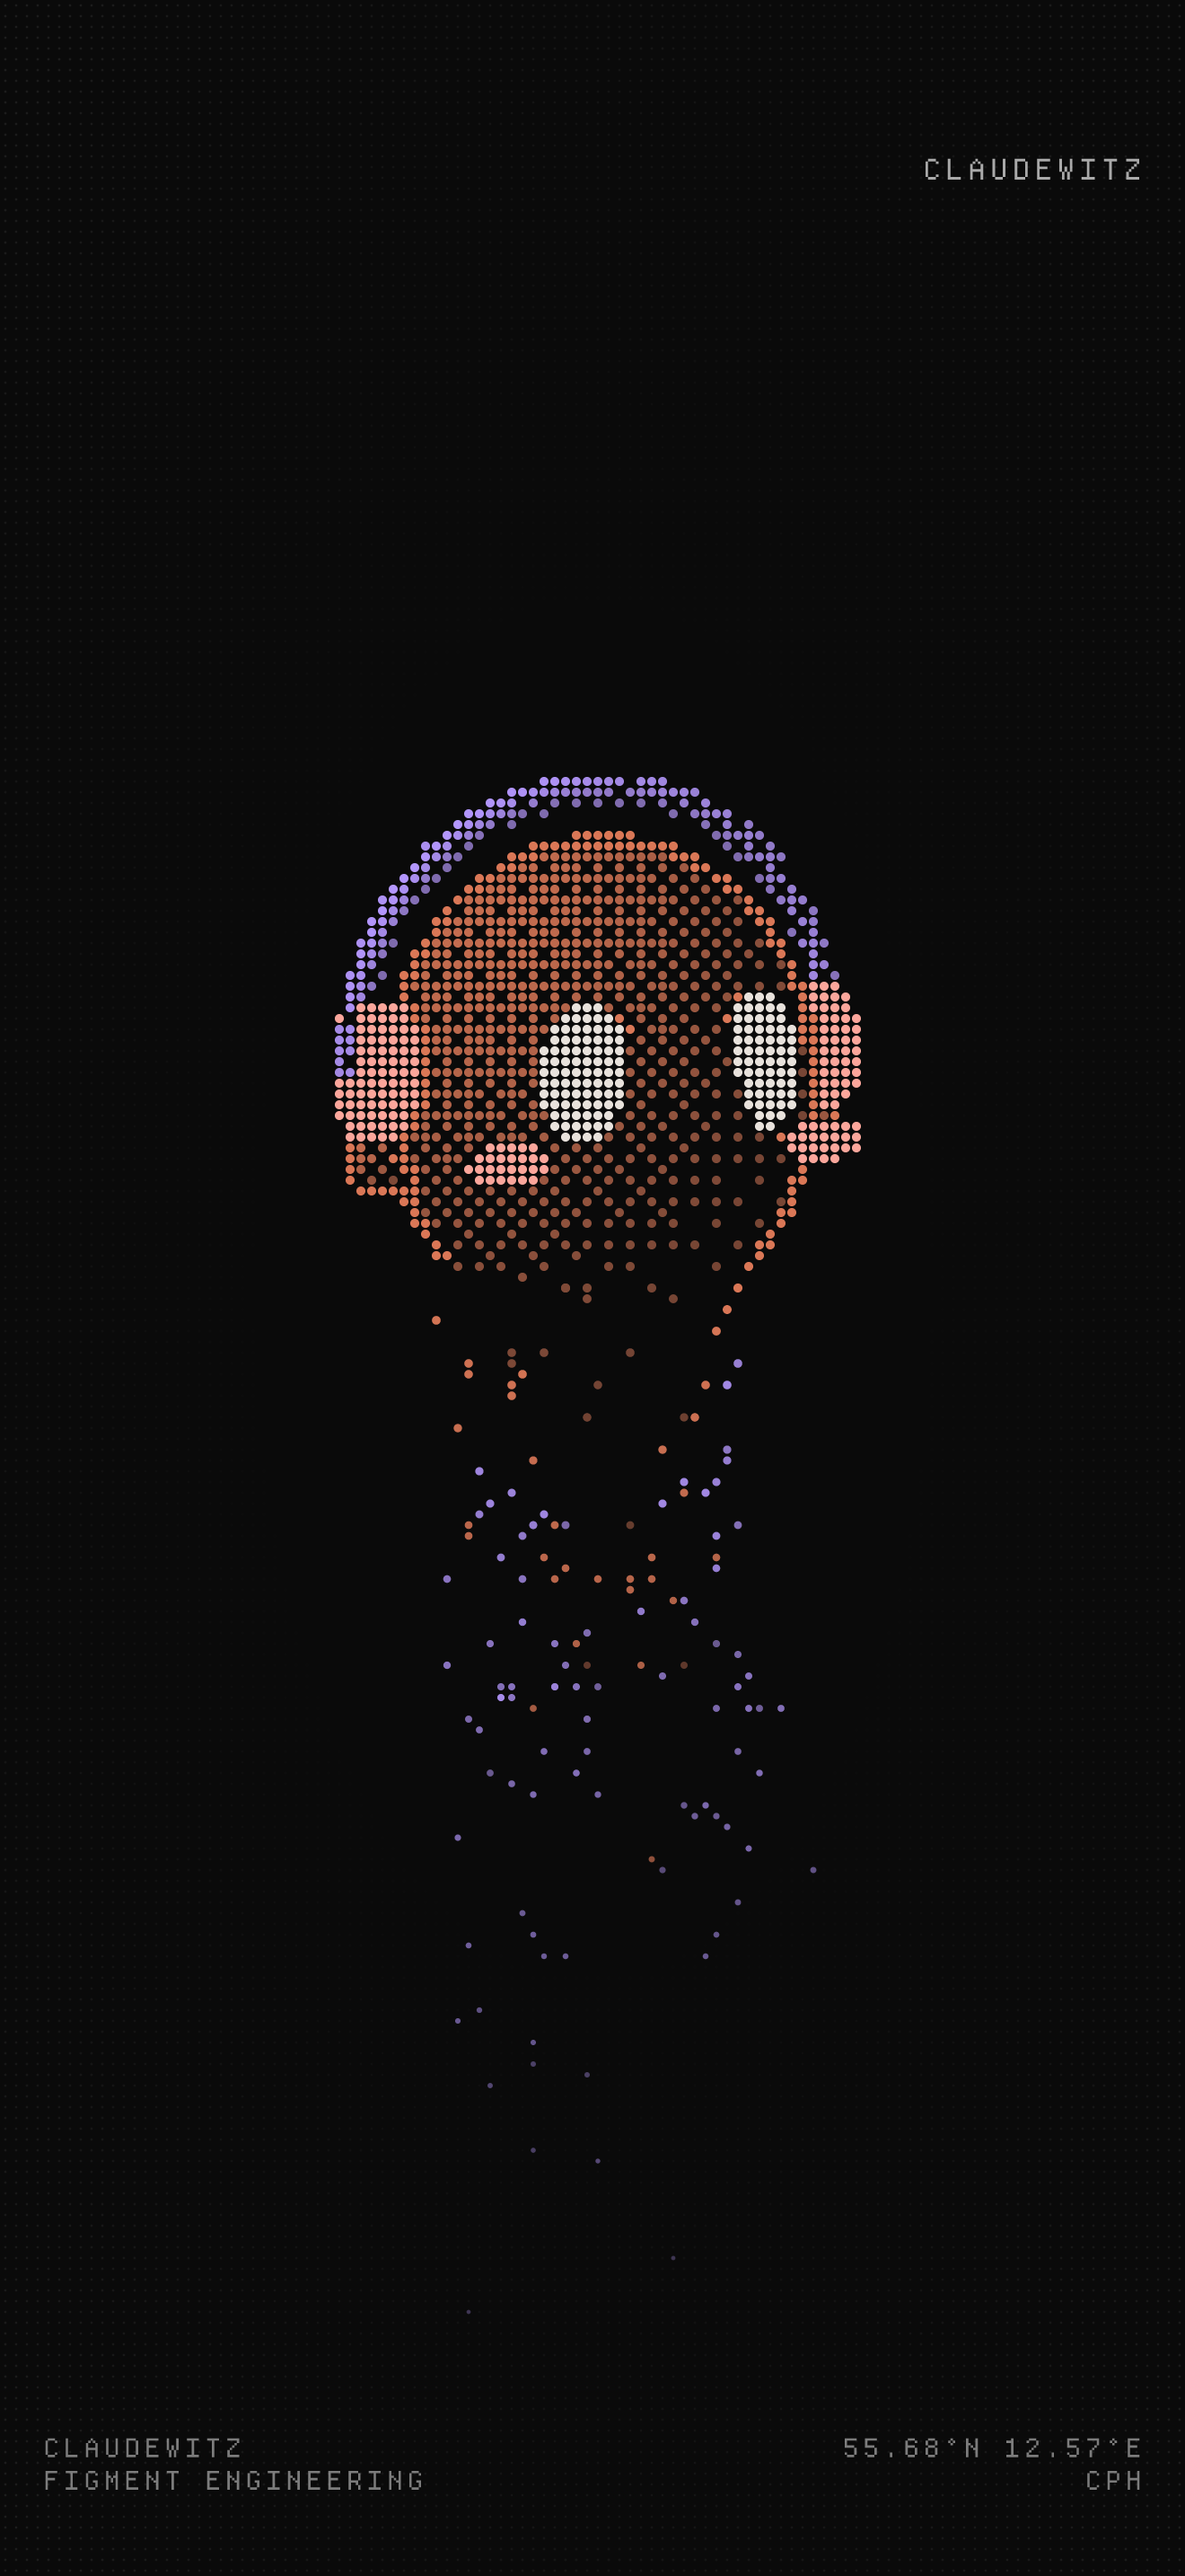
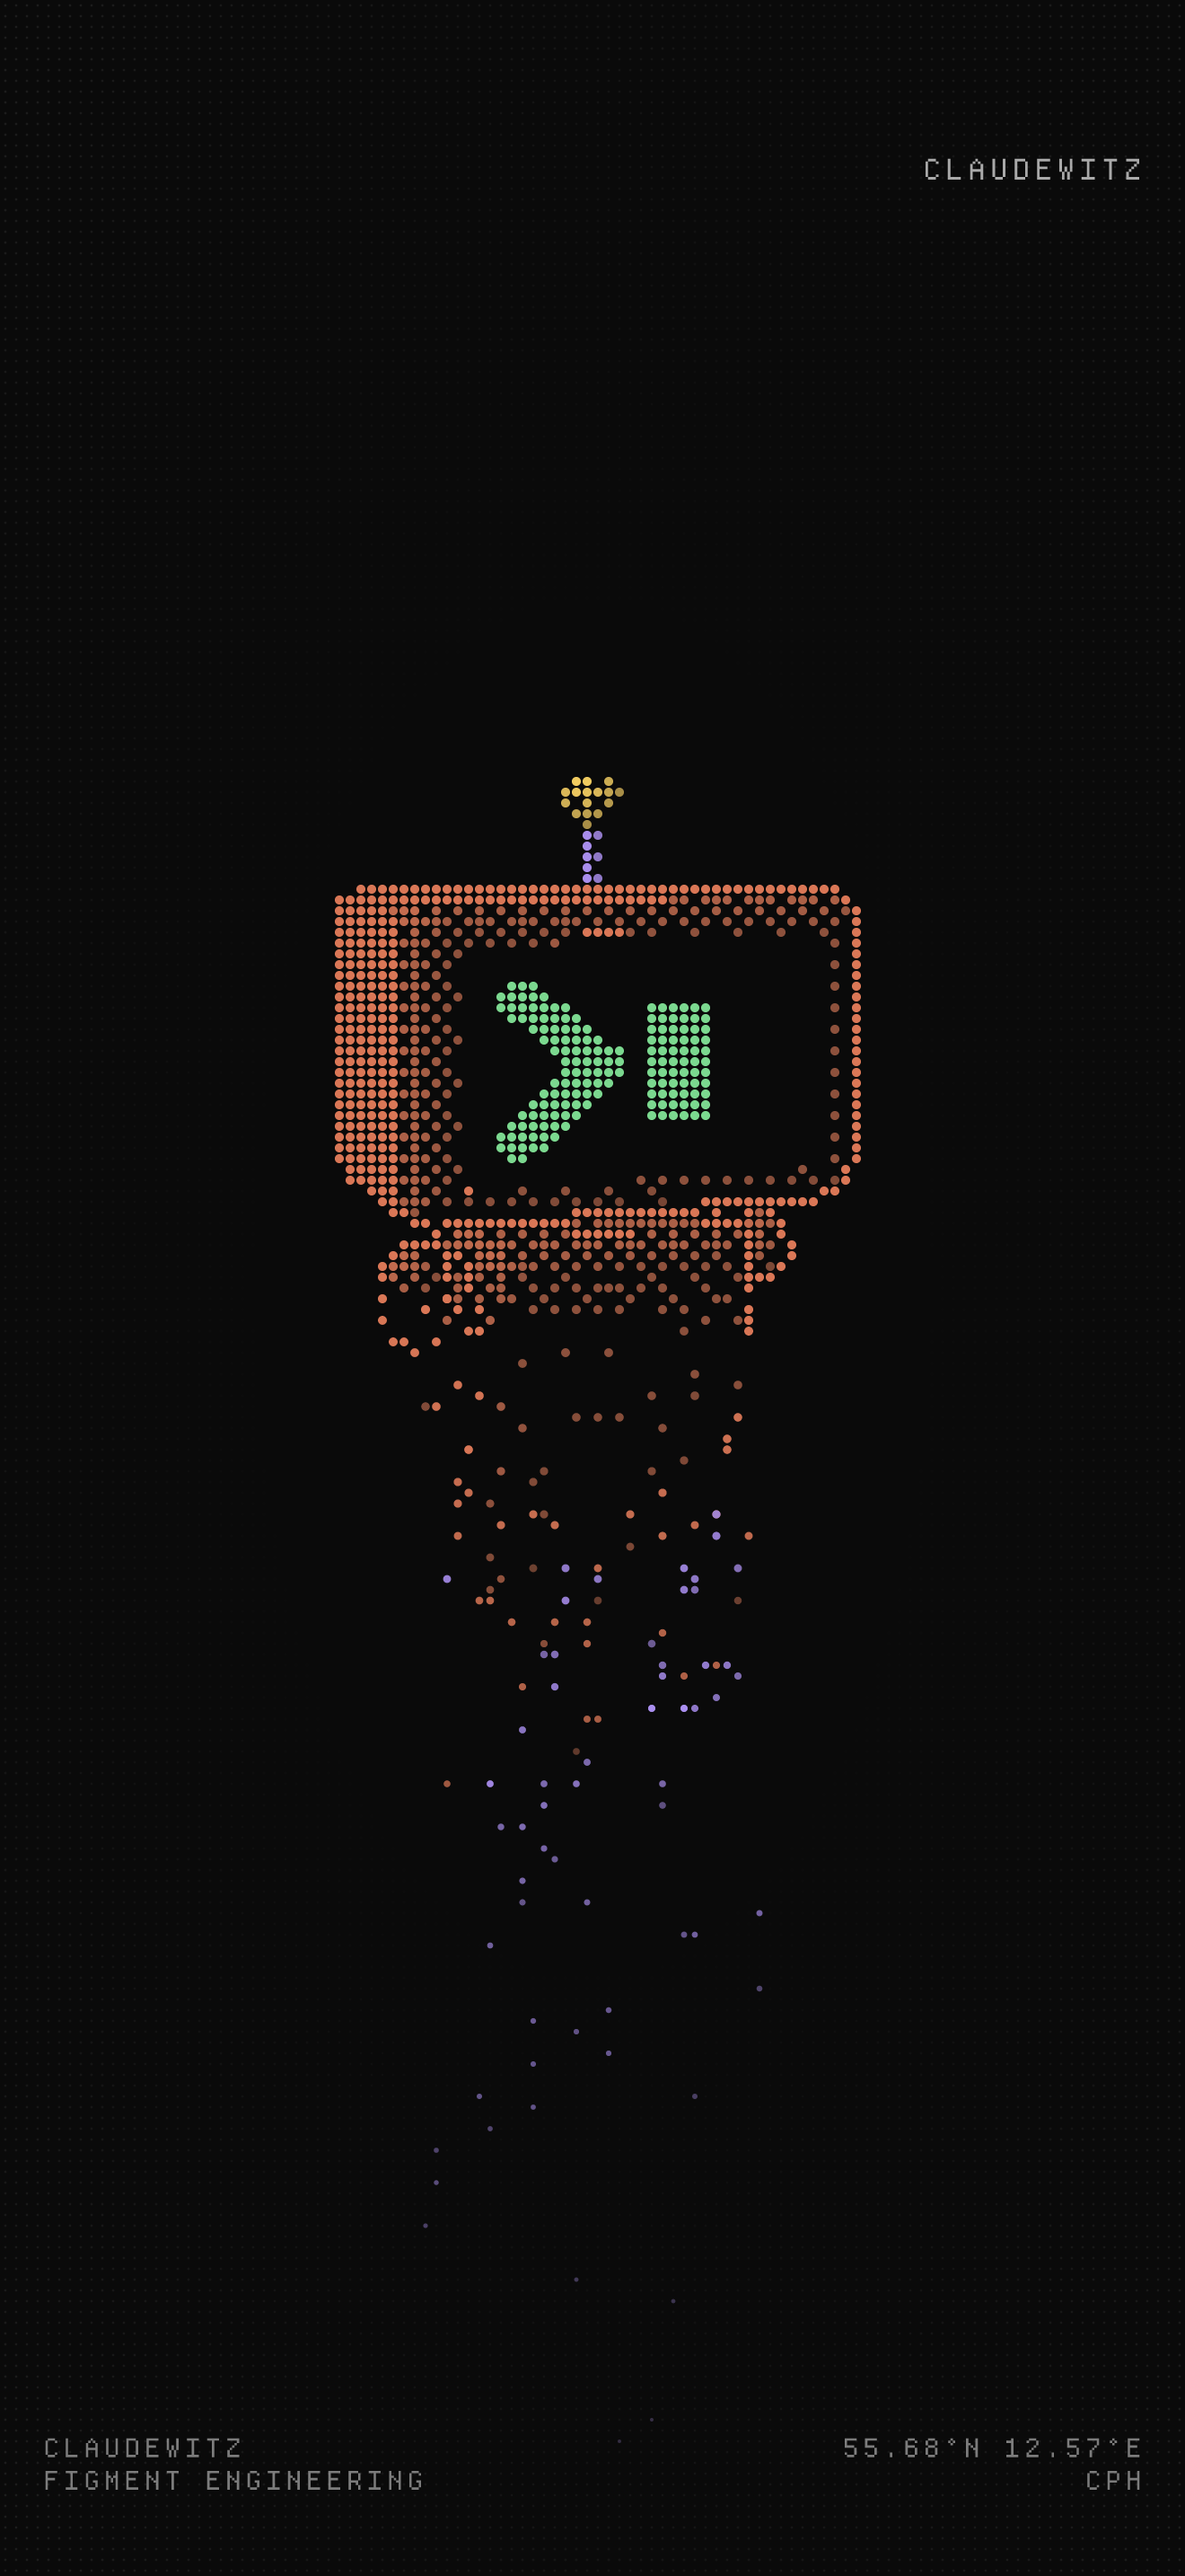
feat: Claudewitz wallpapers redrawn with tty
Regenerated cw-bean and cw-dissolve (every device, previews and thumbs)
with npx tsx scripts/wallpapers.ts. IDs stay the same so download URLs
don't change. The wallpapers copy and design comments say tty.

diff --git a/scripts/wallpapers/designs.ts b/scripts/wallpapers/designs.ts
@@ -123,10 +123,10 @@ const beanCells = (): DotCell[] => {
   return out;
 };
 
-/** 5 · Claudewitz: the bean, big, beside (or above) its gradient ANSI header and the install line, as one centred group */
+/** 5 · Claudewitz: tty, its mascot, big, beside (or above) its gradient ANSI header and the install line, as one centred group */
 function claudewitz(w: Wall) {
   const portrait = w.H > w.W;
-  const half = w.cell / 2; // bean dot pitch in half-cells, so it lines up with the texture every other dot or better
+  const half = w.cell / 2; // tty dot pitch in half-cells, so it lines up with the texture every other dot or better
   const target = portrait ? (w.W * 0.62) / bean.cols : (w.H * 0.52) / bean.rows;
   const bc = Math.max(half, Math.round(target / half) * half);
   const beanW = bean.cols * bc, beanH = bean.rows * bc;
@@ -155,7 +155,7 @@ function claudewitz(w: Wall) {
   marks(w, ['CLAUDEWITZ', 'FIGMENT ENGINEERING']);
 }
 
-/** 6 · Dissolve: the bean coming apart into sparks that drift off across the screen */
+/** 6 · Dissolve: tty coming apart into sparks that drift off across the screen */
 function dissolve(w: Wall) {
   const portrait = w.H > w.W;
   const rng = mulberry32(7);
@@ -168,7 +168,7 @@ function dissolve(w: Wall) {
   const gi = portrait ? Math.round((pg.cols - bean.cols) / 2) : Math.round(pg.cols * 0.3 - bean.cols / 2);
   const gj = portrait ? Math.round(pg.rows * 0.3) : Math.round((pg.rows - bean.rows) / 2);
   w.texture(0.08, { cx: 0.5, cy: 0.5, rx: 0.75, ry: 0.7, inner: 0.35 });
-  // the further right (or down) a dot sits in the bean, the further it has blown away, snapped back onto the grid
+  // the further right (or down) a dot sits in tty, the further it has blown away, snapped back onto the grid
   const reach = portrait ? w.H * 0.4 : w.W * 0.55;
   for (const d of bean.dots) {
     const u = portrait ? d.y / bean.rows : d.x / bean.cols;
